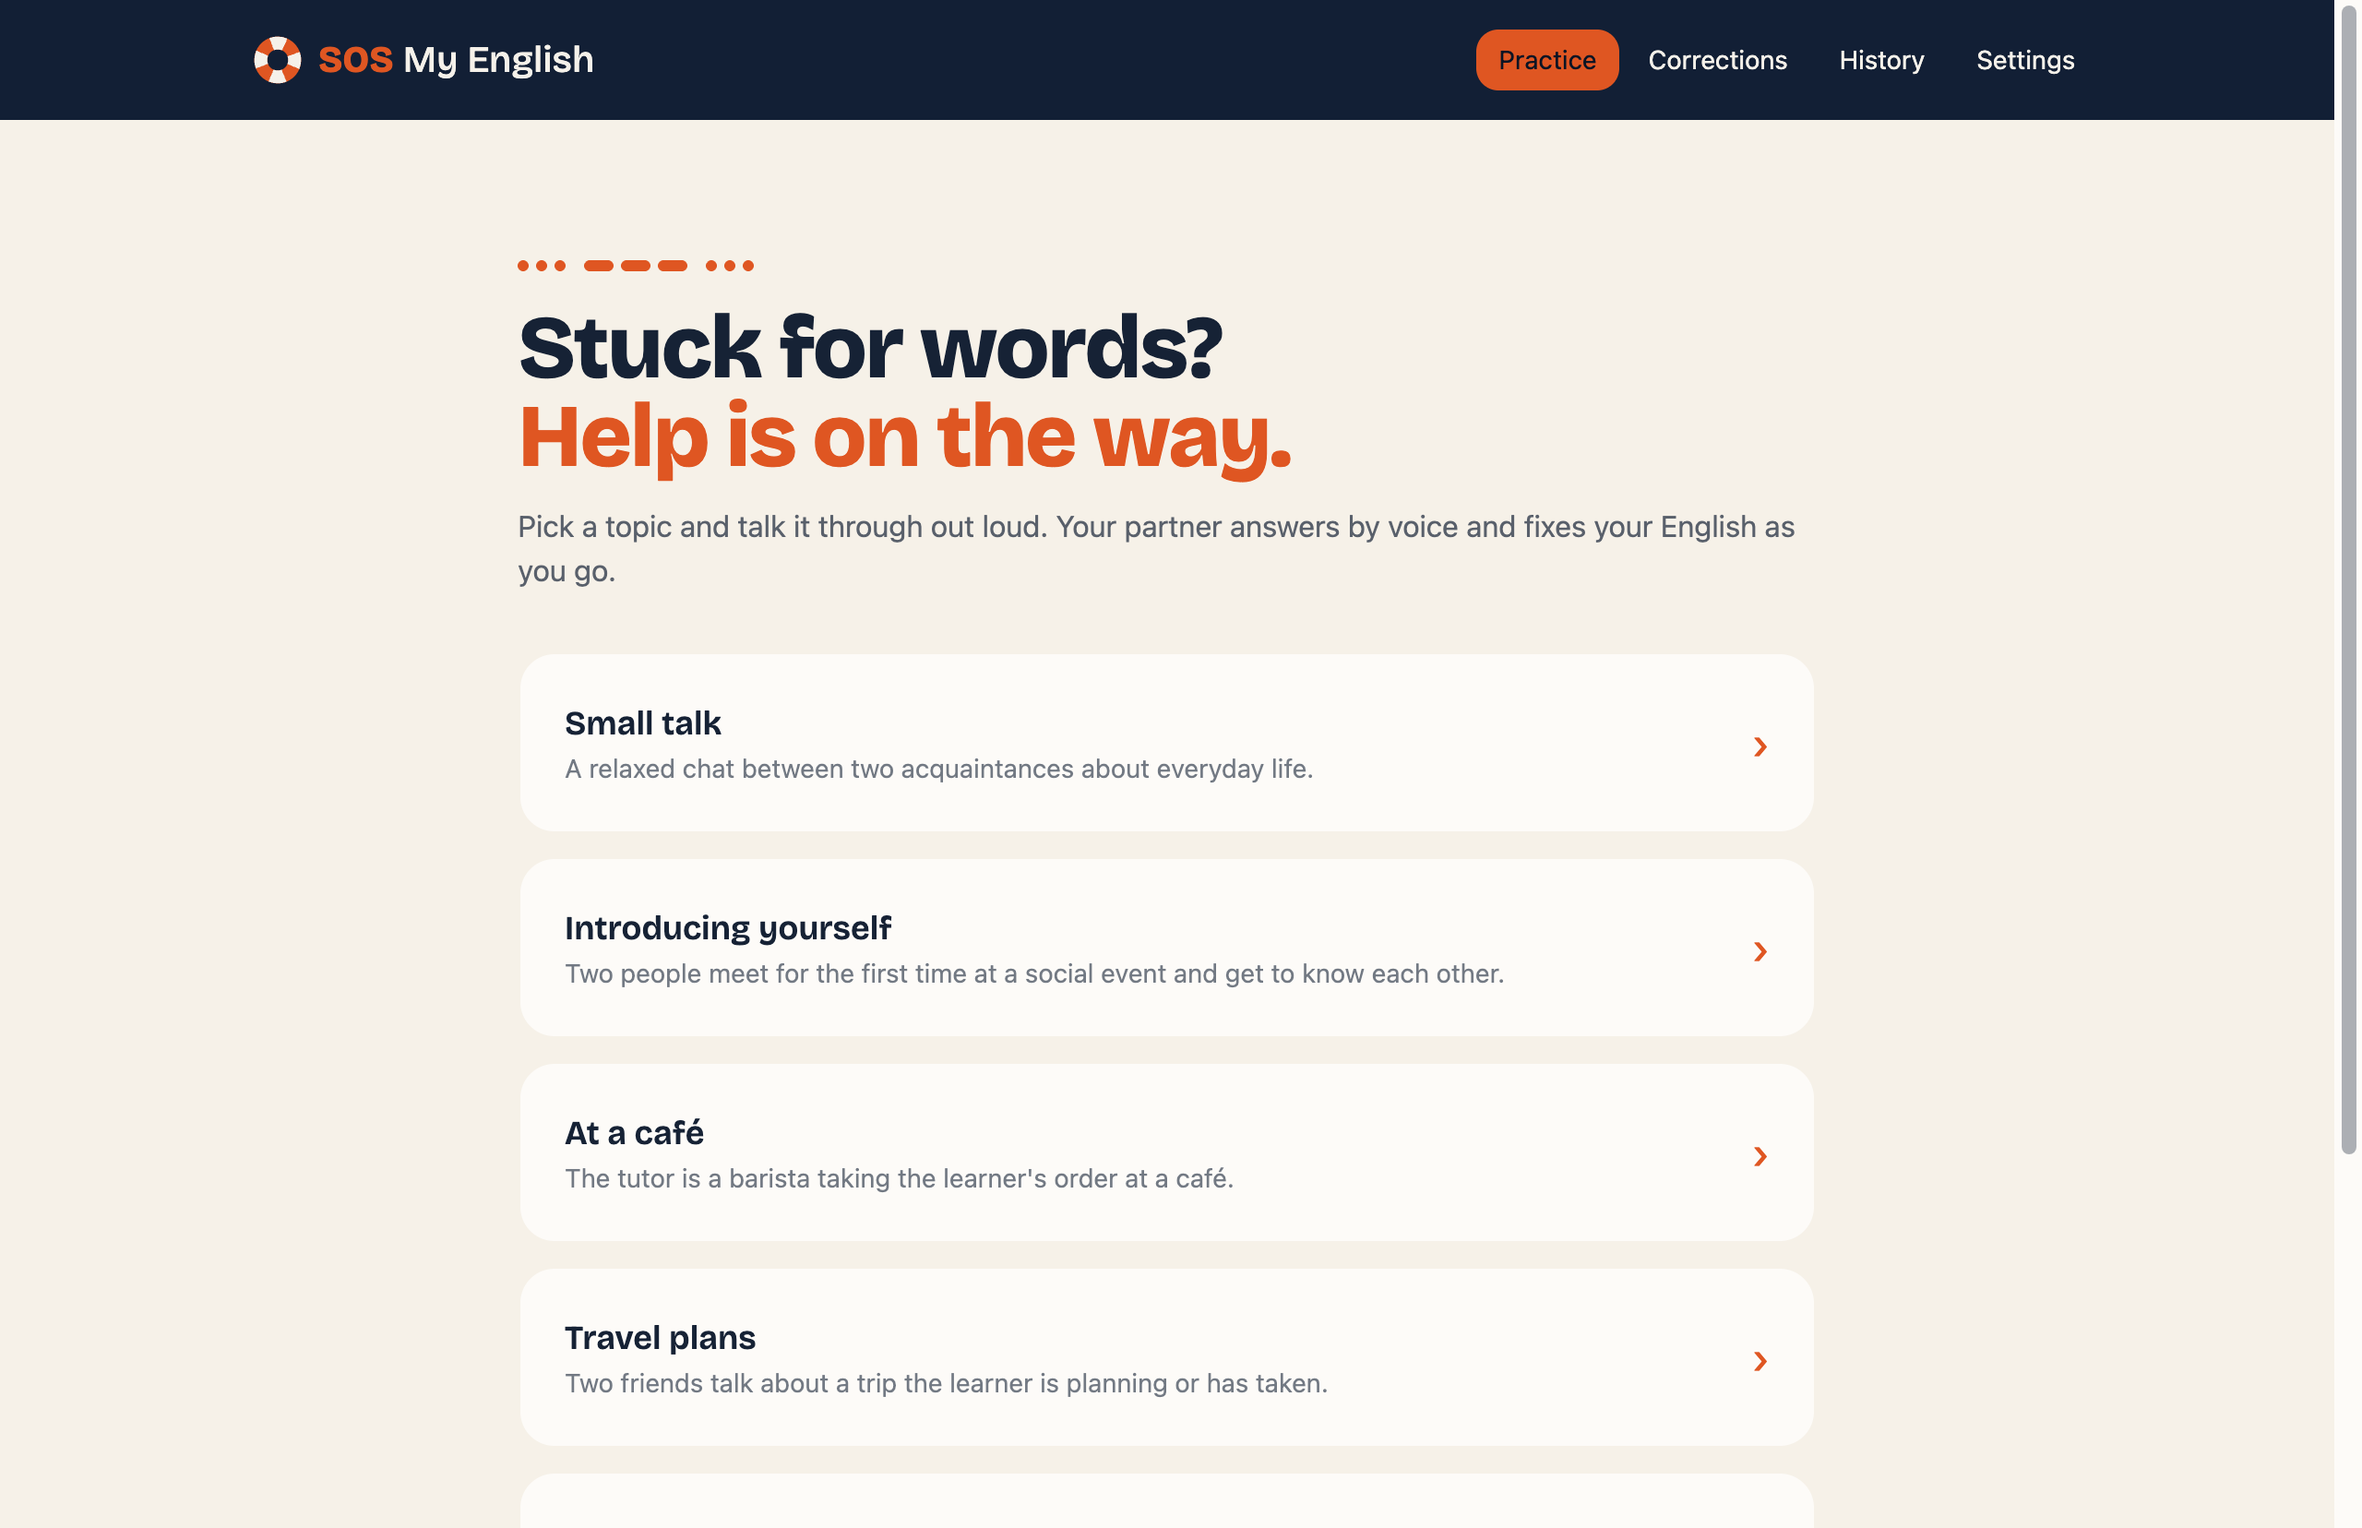
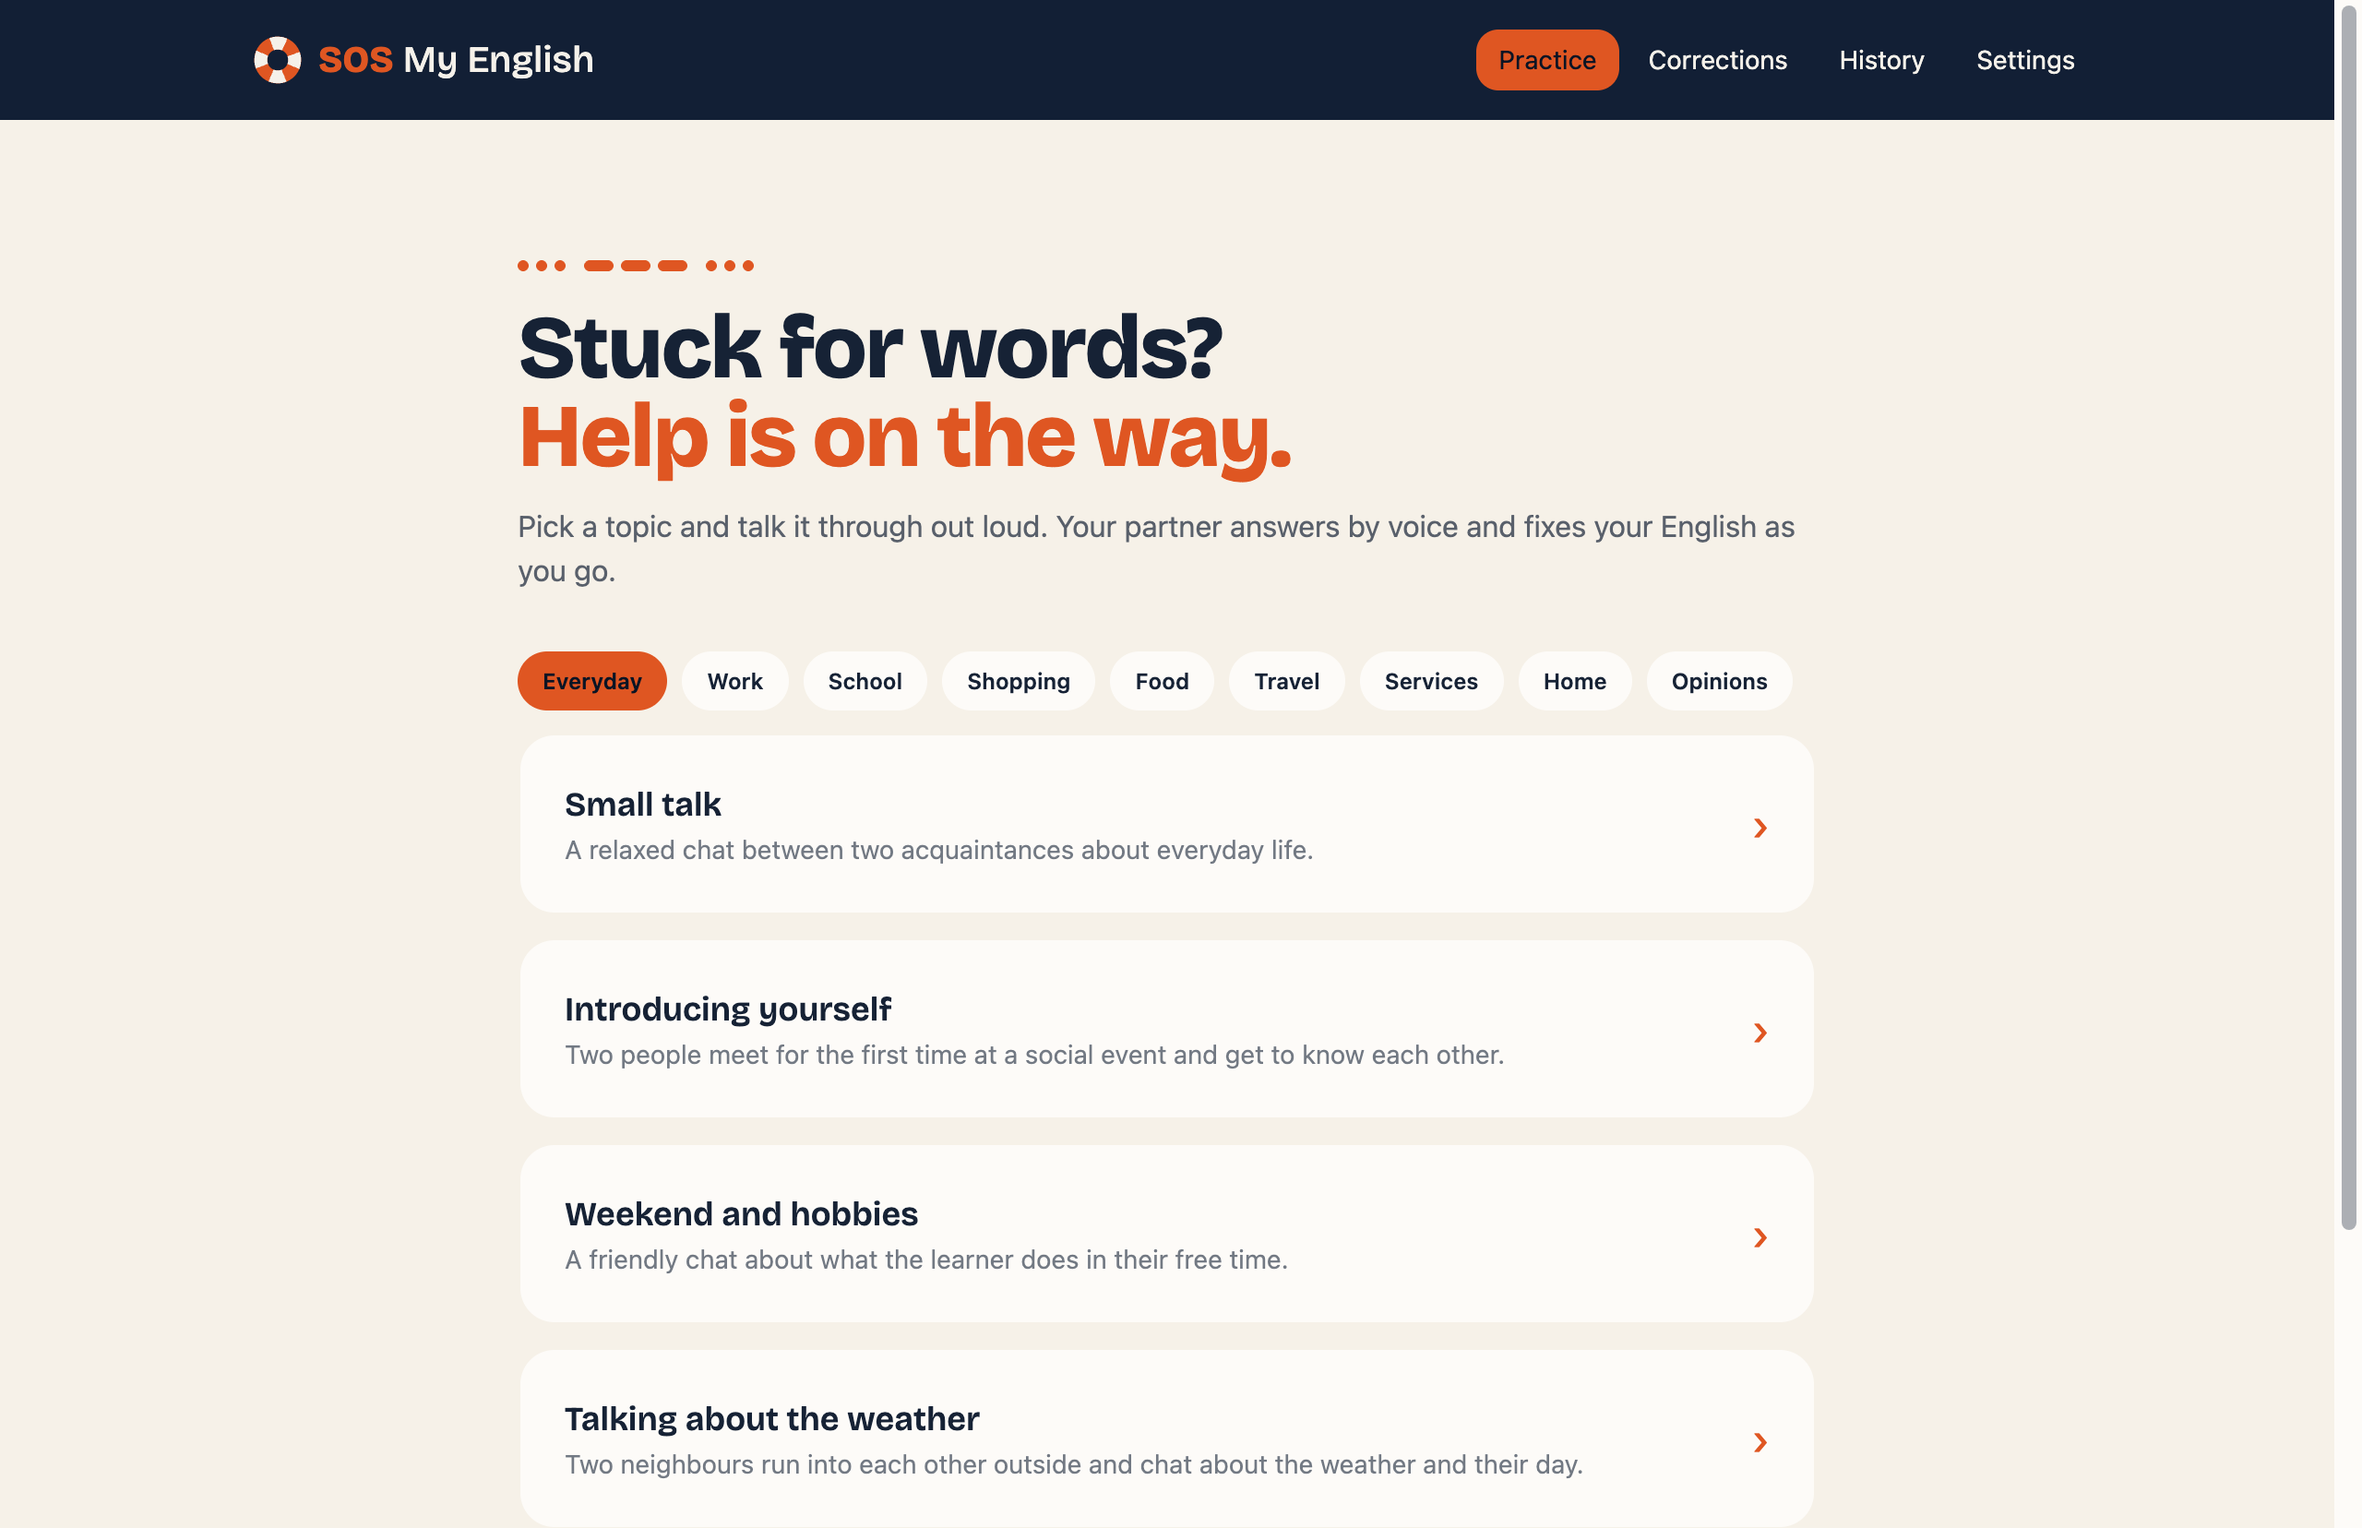
docs: describe the topic categories

diff --git a/docs/worklog/2026-11-21-feat-topic-categories.md b/docs/worklog/2026-11-21-feat-topic-categories.md
@@ -1,0 +1,48 @@
+---
+title: "feat: add built-in topics in categories"
+date: 2026-11-21
+branch: feat/topic-categories
+request-source: chat session, 2026-11-21
+---
+
+## Request
+
+Have more built-in topics, grouped by category (working life, school, the market, and so on).
+The set was agreed on in the chat session: nine categories and about forty topics.
+
+## Changes
+
+- **40 built-in topics in 9 categories** (was 6 topics): Everyday, Work, School, Shopping,
+  Food, Travel, Services, Home, and Opinions. Each situation and opening line was written by
+  hand, not generated. The topics under Opinions have no role to play: the learner describes
+  or argues something at more length, which the role-plays do not practise. Job interviews
+  were left out, because the sibling app covers them.
+- **`category`** on a topic (a new column; `null` for the learner's own). `GET /api/topics`
+  lists the built-in topics category by category, then the learner's own.
+- **A database of an earlier version** gains the new topics and the categories when the app
+  starts. The first six topics keep their ids, saved conversations and own topics are
+  untouched, and an own topic that happens to have the title of a new built-in one stays the
+  learner's.
+- **Seeding no longer uses up ids**: only the missing topics are inserted. Before, every start
+  of the app ran an ignored insert for each built-in topic, and each of those advanced the id
+  counter.
+- **Home page**: a row of category buttons; one category is shown at a time, starting with
+  the first. The learner's own topics are under "Yours", which appears once there is one and
+  opens after a topic is added. The choice is kept while the app is open.
+- The README screenshot of the home page was retaken.
+- Not included: choosing a category for an own topic, searching topics, and translating the
+  topic titles.
+
+## Verification
+
+- `cd backend && uv run pytest`: 111 passed, 5 live tests deselected. New tests cover that
+  every built-in topic is complete and in a known category, that every category has at least
+  four, the listing order, the upgrade of an older database, and the ids.
+- `cd frontend && npm test`: 54 passed; `npm run build` (type check and build) succeeded.
+- Ran the startup step twice on a copy of a database made by v0.2.0 code: 6 topics became 40,
+  none without a category, and topics 1 to 6 kept their titles.
+- In a hidden Electron window on an empty temporary data folder: looked at the home page with
+  its nine categories, opened Opinions, added an own topic (the "Yours" category appeared and
+  opened), and deleted it (the page went back to the first category).
+- Not verified: a conversation on each of the 34 new topics with a real model; they use the
+  same prompt as the existing ones, and only their texts are new.

diff --git a/README.md b/README.md
@@ -20,6 +20,7 @@ Part of the SOS series, next to [SOS My Interview](https://github.com/gyedongjeo
 - **Corrections as you go**: after each thing you say, the most valuable fix is shown with the better sentence and why, and you can hear the better sentence.
 - **How clearly you spoke**: each line shows a clarity score, the words that were hard to recognize, and your pace.
 - **A summary at the end**: wrap a conversation up to see how it went: what you did well, what to work on next, and a few expressions worth trying next time.
+- **40 topics in 9 categories**: everyday chat, work, school, shopping, food, travel, services, home, and giving your opinion.
 - **Your own topics**: add the situations you need (a job interview, renting a car, a call with a client) next to the built-in ones.
 - **Practise your corrections**: every fix is collected on the Corrections page, where you say the better sentence aloud until it comes out right.
 - **History**: every conversation is saved as you have it, with its corrections, so you can read it and hear it again.
@@ -90,7 +91,8 @@ UI, and is sent only to the chosen provider.
 ## How it works
 ### Conversation
 Each topic sets a situation (small talk, ordering at a café, a meeting at work, ...) and an
-opening line. After each thing you say, the LLM gets the conversation so far and returns your
+opening line. The home page shows the built-in topics one category at a time; the ones under
+Opinions have no role to play and ask you to talk at more length about what you think. After each thing you say, the LLM gets the conversation so far and returns your
 partner's next line together with at most one correction of what you just said.
 
 Besides the built-in topics you can add your own on the home page: a title and the situation
